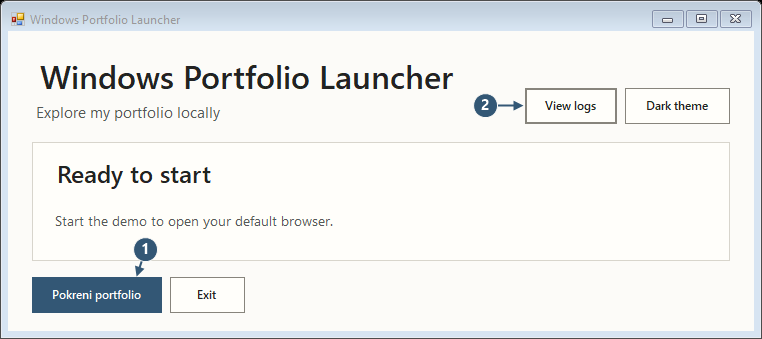
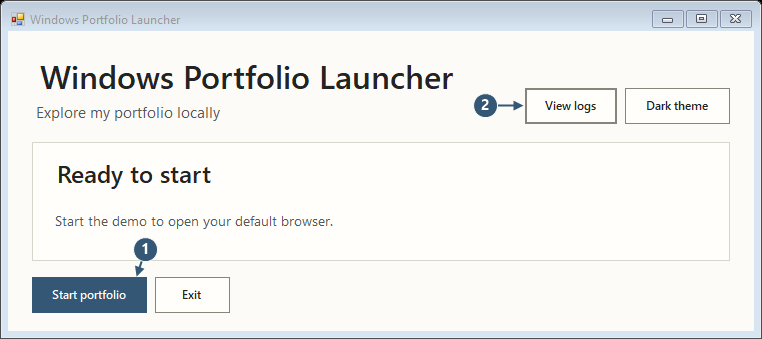
Publish English Windows documentation and launcher labels

Changed region(s): [[0.0604, 0.7965, 0.3018, 0.944]]

diff --git a/docs/guide/windows-launcher.md b/docs/guide/windows-launcher.md
@@ -4,17 +4,17 @@
 
 ## Download and install
 
-1. Select **Preuzmi portfolio za Windows** in the README to download one installer from the latest published release. [Portfolio-Setup.exe](https://github.com/srdjan7991-sudo/portfolio/releases/latest/download/Portfolio-Setup.exe)
+1. Select **Download portfolio for Windows** in the README to download the installer from the latest published release. [Portfolio-Setup.exe](https://github.com/srdjan7991-sudo/portfolio/releases/latest/download/Portfolio-Setup.exe)
 2. Open **Portfolio-Setup.exe**. Proceed to **Ready to Install** and select **Install**. Setup copies the bundled frontend to your user profile and adds **Portfolio Launcher** shortcuts to the desktop and Start menu.
-3. If the final page offers **Pokreni Portfolio Launcher**, check it before selecting **Finish** to open the launcher immediately. Leave it unchecked to open the launcher later from either shortcut.
+3. Check **Open Portfolio Launcher** on the final page and select **Finish** to open the launcher immediately. Leave the checkbox empty to open the launcher later from either shortcut.
 
 ![The real installer at Ready to Install, with the Install button marked.](../screenshots/launcher--install.png)
 
 ## Open the portfolio
 
-![The Windows launcher before startup, with Pokreni portfolio and the logs control marked.](../screenshots/launcher--start.png)
+![The Windows launcher before startup, with Start portfolio and View logs marked.](../screenshots/launcher--start.png)
 
-1. **Pokreni portfolio** starts the local browser demo. The launcher checks that the bundled page responds before opening the default browser.
+1. Select **Start portfolio** to open the local demo. The launcher checks that the bundled page responds before opening the default browser.
 2. **View logs** shows the launcher’s latest events and errors.
 
 ![The launcher checking the bundled portfolio, with its starting status marked.](../screenshots/launcher--starting.png)
@@ -64,7 +64,7 @@ Select **Explore the request**, then **Open walkthrough** below the Hero.
 ## Stop or diagnose the launcher
 
 1. Select **Stop** to stop the local server and keep the launcher open. **Exit** or closing its window also stops the server.
-2. **Portfolio stopped** means the local server has shut down. Start again with **Pokreni portfolio**. Browser-local settings stay available at the same address.
+2. **Portfolio stopped** means the local server has shut down. Select **Start portfolio** to run the demo again. Browser-local settings stay available at the same address.
 
 ![The Windows launcher after Stop, with the stopped status and restart entry point marked.](../screenshots/launcher--stopped.png)
 
@@ -91,7 +91,7 @@ Use Node.js 24, Windows PowerShell 5.1, and Inno Setup 6.7.4 for packaging. Run 
 
 ```powershell
 npm ci
-powershell.exe -NoProfile -ExecutionPolicy Bypass -File launcher/Build-WindowsInstaller.ps1 -CompilerPath C:/tools/Inno/ISCC.exe -Version 0.1.0
+powershell.exe -NoProfile -ExecutionPolicy Bypass -File launcher/Build-WindowsInstaller.ps1 -CompilerPath C:/tools/Inno/ISCC.exe
 ```
 
 The builder writes `artifacts/Portfolio-Setup.exe`. The installer contains the launcher and finished Vite bundle. Windows PowerShell 5.1 runs the server on IPv4 loopback inside the launcher process. [Installer checks and release workflow](../testing-and-deployment.md#windows-demo-checks)

diff --git a/README.md b/README.md
@@ -4,7 +4,7 @@ Explore the work and technical demonstrations of a frontend-focused software eng
 
 [Open the portfolio](https://srdjan7991-sudo.github.io/portfolio/)
 
-**[↓ Preuzmi portfolio za Windows](https://github.com/srdjan7991-sudo/portfolio/releases/latest/download/Portfolio-Setup.exe)**
+**[↓ Download portfolio for Windows](https://github.com/srdjan7991-sudo/portfolio/releases/latest/download/Portfolio-Setup.exe)**
 
 - [Opening screen and navigation](#opening-screen-and-navigation)
 - [Behind every request](#behind-every-request)
@@ -106,10 +106,10 @@ See an expanded project on mobile and how to return to it from Skills. [Professi
 
 The Windows 10 or 11 installer includes the complete frontend. Installation works offline and runs under your Windows account. A current browser and built-in Windows components are enough to run the demo.
 
-![The Windows Portfolio Launcher before startup with the Pokreni portfolio button highlighted.](docs/screenshots/launcher--start.png)
+![The Windows Portfolio Launcher before startup with Start portfolio marked.](docs/screenshots/launcher--start.png)
 
 1. Use the download link at the top of this page to get `Portfolio-Setup.exe` from the latest GitHub Release. Open it and select **Install**.
-2. If Setup offers **Pokreni Portfolio Launcher**, select it before **Finish** to open the launcher immediately. You can also open **Portfolio Launcher** from the desktop or Start menu. In the launcher, select **Pokreni portfolio** to open the demo in your default browser.
+2. To open the launcher immediately, check **Open Portfolio Launcher** on the final Setup page and select **Finish**. To open it later, use the **Portfolio Launcher** shortcut on the desktop or Start menu. Select **Start portfolio** to open the demo in your default browser.
 3. Explore the sections, interactive analytics and request walkthrough. **Edit layout** saves your order in the current browser.
 4. Use **Stop** to stop the server or **Exit** to close the launcher. To remove the installation, choose **Srdjan Pajic Portfolio** in Windows **Installed Apps**.
 

diff --git a/docs/architecture.md b/docs/architecture.md
@@ -81,7 +81,7 @@ The live walkthrough translates known default titles in the browser result cards
 
 Before the player opens, the request cross section presents the browser, application server, and database. On wide, tall screens with motion enabled, the scene briefly sticks below the header. Scrolling separates the layers, then aligns them with distinct request and response paths. The moving planes and path endpoints share the same SVG coordinates. Narrow screens use a stepped diagram, and short viewports and reduced motion use a static layout. Layer buttons reveal explanations independently of the walkthrough and simulations. [Cross section](../src/features/request-flow/RequestCrossSection.tsx)
 
-**Behind every request** is labeled **Iza svakog zahteva** in Serbian. Choose **Explore the request**, then **Open walkthrough**. Start with **Load content** in the illustrated browser or **Play** in the player controls. Use **Pause**, the previous and next step, and **Replay** to control playback. Closing the panel returns focus to its opener.
+In **Behind every request**, choose **Explore the request**, then **Open walkthrough**. Start with **Load content** in the illustrated browser or **Play** in the player controls. Use **Pause**, the previous and next step, and **Replay** to control playback. Closing the panel returns focus to its opener.
 
 | Mode | How it is selected | Result |
 | --- | --- | --- |

diff --git a/docs/testing-and-deployment.md b/docs/testing-and-deployment.md
@@ -63,7 +63,7 @@ Playwright starts a Vite production preview. Its HTTPS walkthrough uses a fixtur
 Use Node.js 24, Windows PowerShell 5.1, and Inno Setup 6.7.4 to build the installer from a source checkout. The smoke test installs the generated EXE for the current user, checks both shortcuts and the loopback server with developer tools off `PATH`, and invokes the registered uninstaller. It also checks rapid Start/Stop, port reuse, and shutdown with local clients connected. Run it on a Windows test account without an existing installation. The Chromium suite also exercises the Windows build without an API.
 
 ```powershell
-powershell.exe -NoProfile -ExecutionPolicy Bypass -File launcher/Build-WindowsInstaller.ps1 -CompilerPath C:/tools/Inno/ISCC.exe -Version 0.1.0
+powershell.exe -NoProfile -ExecutionPolicy Bypass -File launcher/Build-WindowsInstaller.ps1 -CompilerPath C:/tools/Inno/ISCC.exe
 powershell.exe -NoProfile -ExecutionPolicy Bypass -File launcher/tests/WindowsInstaller.Tests.ps1 -InstallerPath artifacts/Portfolio-Setup.exe
 ```
 
